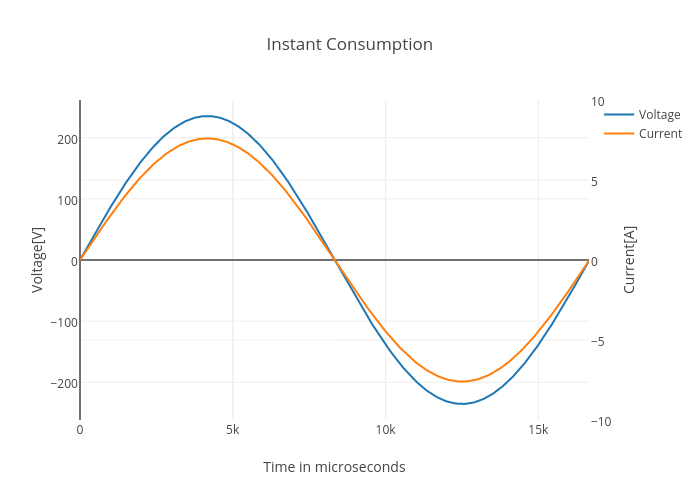
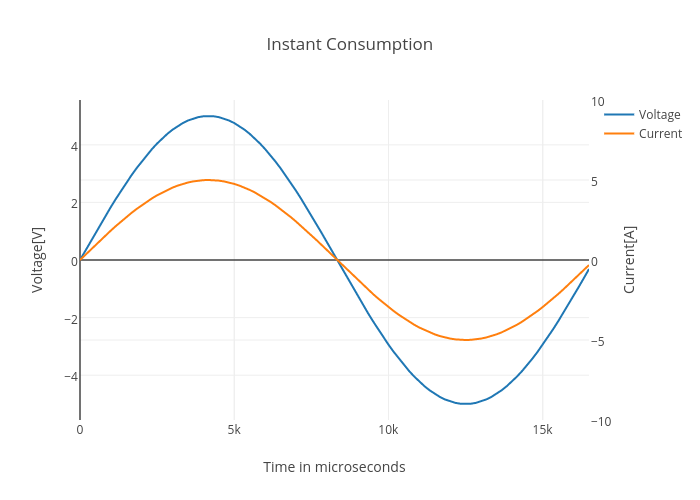
treadinicializada

diff --git a/submit.py b/submit.py
@@ -11,6 +11,7 @@ import tornado.ioloop
 import tornado.options
 import tornado.web
 import json
+from src.fake_measure import *
 
 from tornado.options import define, options
 from datetime import datetime
@@ -88,17 +89,21 @@ class ConsumeHistoryHandler(tornado.web.RequestHandler):
 #Configures the threads ans how the website should interpret requisitions from the website
 if __name__ == '__main__':
 
+    voltage = Measure("voltage", 0, 0, size=100)
+    current = Measure("current", 0, 0, size=100)
     tornado.options.parse_command_line()
     app = tornado.web.Application(
         handlers=[(r'/', IndexHandler),
                   (r'/api/devinfo', DevInfoHandler),
                   (r'/api/history', HistoryHandler),
                   (r'/api/consumehistory', ConsumeHistoryHandler),
-                  (r"/fig/(.*\.svg)", tornado.web.StaticFileHandler,{'path': os.path.join(os.path.dirname(__file__), "fig")}),
+                  (r"/fig/(.*\.png)", tornado.web.StaticFileHandler,{'path': os.path.join(os.path.dirname(__file__), "fig")}),
                   (r'/css/(.*\.css)',tornado.web.StaticFileHandler, {'path': os.path.join(os.path.dirname(__file__), "templates/css")},),
                   (r'/js/(.*\.js)',tornado.web.StaticFileHandler, {'path': os.path.join(os.path.dirname(__file__), "templates/js")},)],
         template_path=os.path.join(os.path.dirname(__file__), "templates"),
     )
     http_server = tornado.httpserver.HTTPServer(app)
     http_server.listen(options.port)
-    tornado.ioloop.IOLoop.instance().start()
+    server = tornado.ioloop.IOLoop.instance()
+    tornado.ioloop.PeriodicCallback(lambda: threadRead(voltage, current),2000).start()
+    server.start()

diff --git a/src/measure.py b/src/measure.py
@@ -75,7 +75,7 @@ class Measure(deque):
       datafile = open(os.path.join(os.path.dirname(__file__),datetime.today().strftime('../data/%Y%m%d.json')), 'w+')
       datafile.write(json.dumps(dataraw))
       return 1
-    value = self.amp*2*(ADC.read(self.adcPort)-0.5)
+    value = np.sin(2*np.pi*self.freq*self.num_elem)#self.amp*2*(ADC.read(self.adcPort)-0.5)
     self.num_elem += 1
     self.append(value)
     return 0
